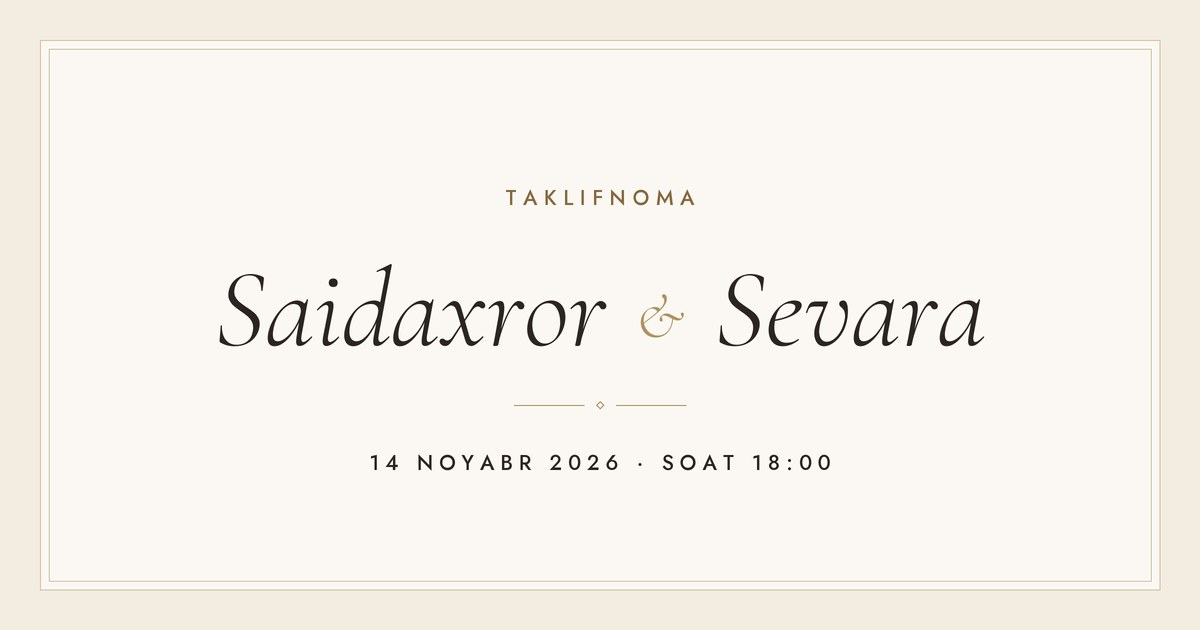
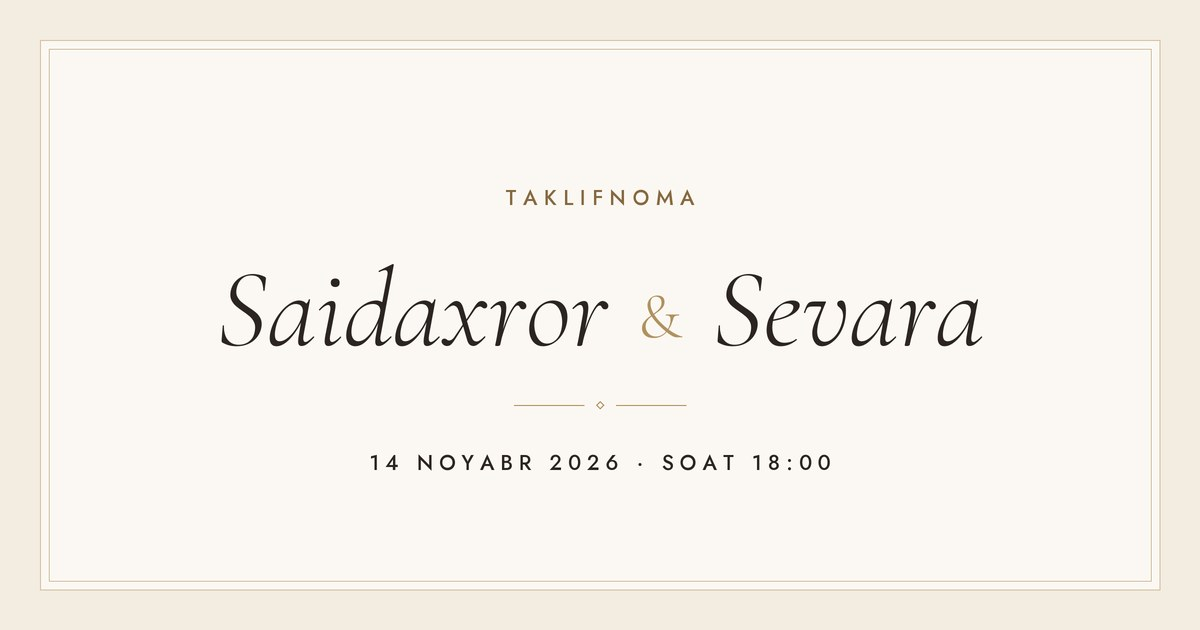
"&" belgisini tik shaklga almashtirish
Kursiv Cormorant'dagi ampersand eski "Et" ga o‘xshab tanilmas edi.
Ismlar orasida, monogrammada va havola rasmida endi oddiy tik "&".

diff --git a/src/style.css b/src/style.css
@@ -131,9 +131,11 @@ button {
   display: block;
 }
 
+/* Tik (kursiv emas) shakl: kursiv Cormorant'da "&" eski "Et" ga o‘xshab, tanilmaydi. */
 .names .names__amp {
   margin-block: 0.12em;
   font-size: 0.5em;
+  font-style: normal;
   line-height: 1.2;
   color: var(--c-gold);
 }

diff --git a/src/components/CoupleSection.vue b/src/components/CoupleSection.vue
@@ -60,6 +60,7 @@ const greeting = computed(() =>
 
 .monogram__amp {
   font-size: 0.55em;
+  font-style: normal;
   color: var(--c-gold);
 }
 
